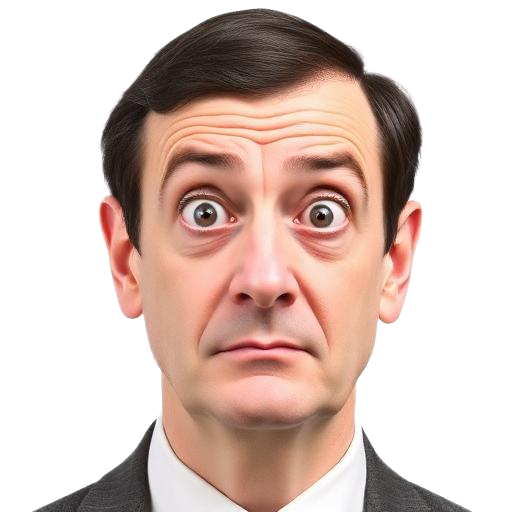
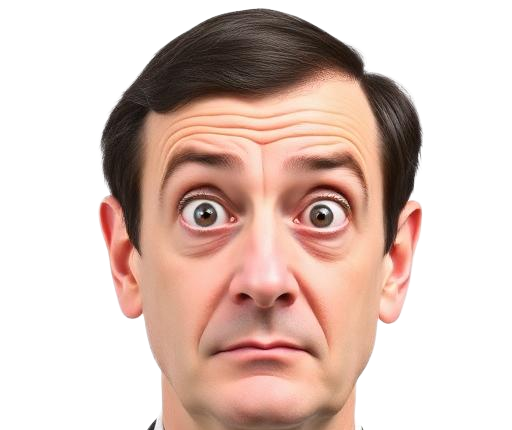
Changes

diff --git a/src/components/game/BeanRefHead.tsx b/src/components/game/BeanRefHead.tsx
@@ -107,11 +107,11 @@ export function BeanRefHead() {
 
   if (!config.headEnabled) return null;
   // Tracked shirt wins; the admin sliders are the fallback anchor.
-  const anchorX = spot ? spot.x : config.headX;
+  const anchorX = spot ? spot.x - 3.5 : config.headX;
   // The detector locks onto the torso; the head sits a bit above it.
   const anchorY = spot ? spot.y - 8.5 : config.headY;
   const sizePct = spot
-    ? Math.min(8, Math.max(3.5, spot.width * 2))
+    ? Math.min(5, Math.max(2.2, spot.width * 1.2))
     : config.headSize;
   const size = (sizePct / 100) * fit.w;
 
